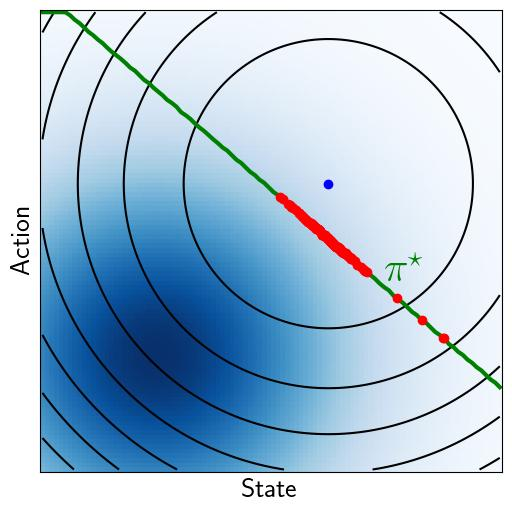
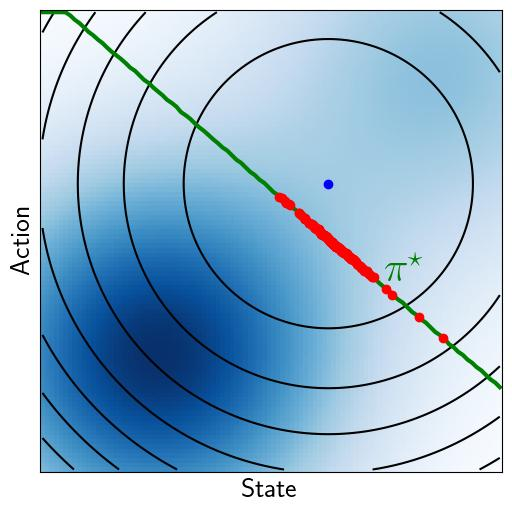
Update OOD

Changed region(s): [[0.4375, 0.0, 1.0, 0.6562]]

diff --git a/Safety/Codes/Epistemic/OOD_Policy3.py b/Safety/Codes/Epistemic/OOD_Policy3.py
@@ -1,0 +1,157 @@
+import sys
+import numpy as np
+import matplotlib.pyplot as plt
+#import scipy as sc
+
+plt.rcParams['text.usetex'] = True
+FS = 40
+
+Mu  = [np.array([-.5,-.5]),np.array([0.75,.75])]
+Std = [3*np.eye(2),3*np.eye(2)]
+Wei = [.7,.3]
+
+weight = 1
+
+A = 1
+B = 0.25
+
+sref = .25
+aref = .25
+
+Tol  = 1e-8
+
+N = 200
+
+x = np.linspace(-1,1,100)
+y = np.linspace(-1,1,99)
+xv, yv = np.meshgrid(x, y, indexing='ij')
+
+# Distribution
+x = np.linspace(-1,1,1000)
+ModelPlot = 0
+for k in range(0,len(Wei)):
+    Expon = 0.5*Std[k][0,0]*(xv - Mu[k][0])**2 + 0.5*Std[k][1,1]*(yv - Mu[k][1])**2 + Std[k][0,1]*(yv - Mu[k][1])*(xv - Mu[k][0])
+    ModelPlot += Wei[k]*np.exp( - Expon )
+
+# DP on guarded policy
+ns = 300
+na = 301
+
+sg = np.linspace(-1,1,ns)
+ag = np.linspace(-1,1,na)
+sv, av = np.meshgrid(sg, ag, indexing='ij')
+
+ModelDP = 0
+for k in range(0,len(Wei)):
+    Expon = 0.5*Std[k][0,0]*(sv - Mu[k][0])**2 + 0.5*Std[k][1,1]*(av - Mu[k][1])**2 + Std[k][0,1]*(av - Mu[k][1])*(sv - Mu[k][0])
+    ModelDP += Wei[k]*np.exp( - Expon )
+    
+
+
+def DP(weight):
+    V     = np.zeros(ns)
+    gamma = 0.99
+
+    iter = True
+    while iter:
+        L       = 0.5*(sv-sref)**2 + 0.5*(av-aref)**2 - weight*ModelDP
+        #L      += 2*(sv < -.9)*(sv + 0.9)
+        #L      += 2*(sv > +.9)*(sv - 0.9)
+        
+        splus   = A*sv + B*av
+        Vplus   = np.interp(splus,sg,V)
+        Q       = L + gamma*Vplus
+        
+        Vprev   = V
+        V       = np.min(Q,axis=1)
+        
+        Residual = np.linalg.norm(V-Vprev)
+        print(np.log10(Residual))
+        if Residual < Tol:
+            iter = False
+            
+    Indices = np.argmin(Q,axis=1)
+    Pi      = ag[Indices]
+
+    return Pi
+
+Pi = {'Star' : DP(0), 'OOD' : DP(weight)}
+
+def Policy(s,Pi):
+    a = np.interp(s,sg,Pi)
+    return a
+
+spolplot     = np.linspace(-1,1,100)
+apolplot     = {}
+for key in Pi:
+    apolplot[key] = Policy(spolplot,Pi[key])
+
+Lplot = {'Star' : 0.5*(sv-sref)**2 + 0.5*(av-aref)**2,
+         'OOD'  : 0.5*(sv-sref)**2 + 0.5*(av-aref)**2 - weight*ModelDP}
+
+for case in ['Map','Star','OOD']:
+
+    print(case)
+    
+    if case == 'Map':
+        plt.close('all')
+        figID = plt.figure(1,figsize=(12,6))
+        ax1 = figID.add_subplot(111)
+        
+        ax1.pcolormesh(xv, yv, ModelPlot, cmap='Blues')
+        ax1.set_aspect('equal', 'box')
+        ax1.set_xticks([])
+        ax1.set_yticks([])
+        ax1.set_xlabel('State',fontsize=FS)
+        ax1.set_ylabel('Action',fontsize=FS)
+        ax1.contour(sv,av,Lplot['Star'],colors='k',linestyles='solid')
+        ax1.plot(sref,aref,marker='o',color='b')
+        
+        figID.savefig('OOD_Map.jpeg', transparent=None, dpi='figure', format=None,metadata=None, bbox_inches='tight', pad_inches=0.1,facecolor='auto', edgecolor='auto', backend=None) #, bbox_inches='tight'
+
+    else:
+        x0 = .75
+
+        SA = np.array([[x0, Policy(x0,Pi[case])]]).reshape(2,1)
+
+        for k in range(0,N):
+            splus   = A*SA[0,-1] + B*SA[1,-1] + np.random.normal(0,0.05)
+            aplus   = Policy(splus,Pi[case])
+            
+            SA = np.concatenate((SA,np.array([splus,aplus]).reshape(2,1)),axis=1)
+
+
+        plt.close('all')
+        figID = plt.figure(1,figsize=(12,6))
+        ax1 = figID.add_subplot(111)
+
+        ax1.pcolormesh(xv, yv, ModelPlot, cmap='Blues')
+        ax1.set_aspect('equal', 'box')
+        ax1.set_xticks([])
+        ax1.set_yticks([])
+        ax1.set_xlabel('State',fontsize=20)
+        ax1.set_ylabel('Action',fontsize=20)
+
+        ax1.plot(sref,aref,marker='o',color='b')
+        ax1.contour(sv,av,Lplot[case],colors='k',linestyles='solid')
+                
+        
+        ax1.plot(spolplot,apolplot['Star'],color='g',linewidth=3)
+        
+       
+        
+        if case == 'OOD':
+            ax1.plot(spolplot,apolplot['OOD'],color='m',linewidth=3)
+            ax1.text(-.5,Policy(-.5,Pi['OOD']),r'$\bf\pi^{\tiny OOD}$',fontsize=30,verticalalignment='bottom',horizontalalignment='left',color='m')
+       
+        ax1.plot(SA[0,:],SA[1,:],marker='o',color='r',linestyle='none')
+        
+        ax1.text(.5,Policy(.5,Pi['Star']),r'$\bf\pi^\star$',fontsize=30,verticalalignment='bottom',horizontalalignment='left',color='g')
+
+        plt.show(block=False)
+        
+        
+        
+
+        figID.savefig('OOD_'+case+'.jpeg', transparent=None, dpi='figure', format=None,metadata=None, bbox_inches='tight', pad_inches=0.1,facecolor='auto', edgecolor='auto', backend=None) #, bbox_inches='tight'
+
